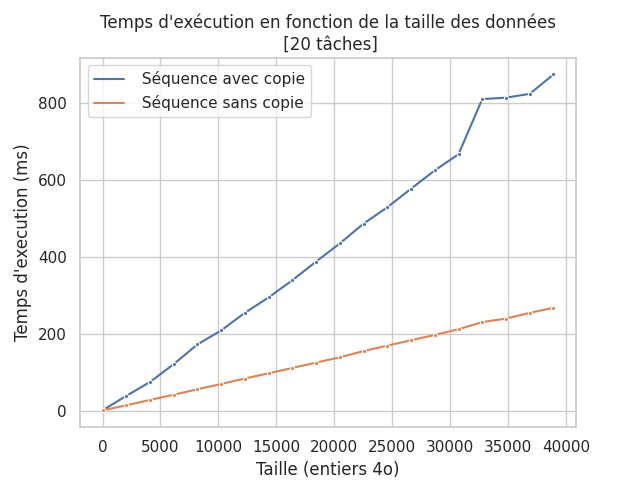
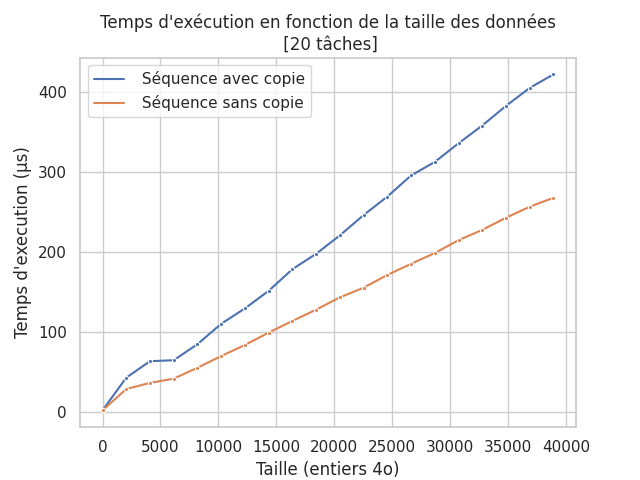
nouveaux graphs avec moyennes

diff --git a/write_data.cpp b/write_data.cpp
@@ -27,15 +27,20 @@ void write_copy_copyless_size(int max_size, int seq_length, std::string path) {
 			seq_copy.add_task(i * sizeof(int), i * sizeof(int)   , increment);
 			seq_copyless.add_task(i * sizeof(int)                 , increment_io);
 		}
-		seq_copy.set_input(in, sizeof(int) * i);
-		seq_copyless.set_input(in, sizeof(int) * i);
-
-		seq_copy.exec();
-		seq_copyless.exec();
+		float total_copy = 0, total_copyless = 0;
+		// Moyenne sur 10 execs
+		for(int y=0; y < 10; y++){
+			seq_copy.set_input(in, sizeof(int) * i);
+			seq_copyless.set_input(in, sizeof(int) * i);
+			seq_copy.exec();
+			seq_copyless.exec();
+			total_copy += duration_cast<nanoseconds>(seq_copy.timestamps.back() - seq_copy.timestamps.front()).count() / 1000.f;
+			total_copyless += duration_cast<nanoseconds>(seq_copyless.timestamps.back() - seq_copyless.timestamps.front()).count() / 1000.f;
+		}
 
 		output_file << i << ",";
-		output_file << duration_cast<nanoseconds>(seq_copy.timestamps.back() - seq_copy.timestamps.front()).count() * 1e-3 << ",";
-		output_file << duration_cast<nanoseconds>(seq_copyless.timestamps.back() - seq_copyless.timestamps.front()).count() * 1e-3 << endl;
+		output_file << total_copy/10 << ",";
+		output_file << total_copyless/10 << endl;
 	}
 	
 	output_file.close();
@@ -58,15 +63,22 @@ void write_copy_copyless_length(int max_seq_length, int size, std::string path) 
 			seq_copy.add_task(size * sizeof(int), size * sizeof(int), increment);
 			seq_copyless.add_task(size * sizeof(int)                 , increment_io);
 		}
-		seq_copy.set_input(in, sizeof(int) * size);
-		seq_copyless.set_input(in, sizeof(int) * size);
+		float total_copy = 0, total_copyless = 0;
+		// Moyenne sur 10 execs
+		for(int j=0; j < 10; j++) {
+			seq_copy.set_input(in, sizeof(int) * size);
+			seq_copyless.set_input(in, sizeof(int) * size);
+			seq_copy.exec();
+			seq_copyless.exec();
 
-		seq_copy.exec();
-		seq_copyless.exec();
+			total_copy += duration_cast<nanoseconds>(seq_copy.timestamps.back() - seq_copy.timestamps.front()).count() / 1000.f;
+			total_copyless += duration_cast<nanoseconds>(seq_copyless.timestamps.back() - seq_copyless.timestamps.front()).count() / 1000.f;
+		}
+
 
 		output_file << i << ",";
-		output_file << duration_cast<nanoseconds>(seq_copy.timestamps.back() - seq_copy.timestamps.front()).count() * 1e-3 << ",";
-		output_file << duration_cast<nanoseconds>(seq_copyless.timestamps.back() - seq_copyless.timestamps.front()).count() * 1e-3 << endl;
+		output_file << total_copy/10 << ",";
+		output_file << total_copyless/10 << endl;
 	}
 	output_file.close();
 }
@@ -111,8 +123,8 @@ void write_hybrid(int regular_length, int io_length, std::string path) {
 		seq_homog.exec();
 		seq_hybrid.exec();
 		for(size_t i=1; i < seq_homog.timestamps.size(); i++) {
-			total_homog[i] += duration_cast<nanoseconds>(seq_homog.timestamps[i] - seq_homog.timestamps[i-1]).count() / 1000.f / 1000.f;
-			total_hybrid[i] += duration_cast<nanoseconds>(seq_hybrid.timestamps[i] - seq_hybrid.timestamps[i-1]).count() / 1000.f / 1000.f;
+			total_homog[i] += duration_cast<nanoseconds>(seq_homog.timestamps[i] - seq_homog.timestamps[i-1]).count() / 1000.f;
+			total_hybrid[i] += duration_cast<nanoseconds>(seq_hybrid.timestamps[i] - seq_hybrid.timestamps[i-1]).count() / 1000.f;
 		}
 	}
 	for(size_t i=1; i < seq_homog.timestamps.size(); i++){

diff --git a/draw_plots.py b/draw_plots.py
@@ -11,24 +11,23 @@ hybrid_data = hybrid_data.set_index('Tâche')
 copy_copyless_length = copy_copyless_length.set_index('Longueur')
 copy_copyless_size = copy_copyless_size.set_index('Taille')
 ### HYBRIDE ###
-graph = sns.lineplot(data=hybrid_data, dashes=False, marker=".")
-plt.ylabel("Temps d'execution (ms)")
+graph = sns.lineplot(data=hybrid_data, dashes=False, marker=".", errorbar="sd")
+plt.ylabel("Temps d'execution (µs)")
 plt.xlabel("N° tâche")
 plt.ylim(0)
-plt.title("Temps d'exécution en fonction du N° de la tâche\n [2048 * 4 entiers]")
+plt.title("Temps d'exécution en fonction du N° de la tâche\n [2048 * 4 entiers -01]")
 graph.get_figure().savefig("./data/graph/hybrid_homog.png")
 plt.close()
 ### COPY-COPYLESS SIZE ###
 graph = sns.lineplot(data=copy_copyless_size, dashes=False, marker=".")
 plt.title("Temps d'exécution en fonction de la taille des données\n [20 tâches]")
-plt.ylabel("Temps d'execution (ms)")
+plt.ylabel("Temps d'execution (µs)")
 plt.xlabel("Taille (entiers 4o)")
 graph.get_figure().savefig("./data/graph/copy_copyless_size.png")
 plt.close()
-#plt.close()
 ### COPY-COPYLESS LENGTH ###
 graph = sns.lineplot(data=copy_copyless_length, dashes=False, marker=".")
 plt.title("Temps d'exécution en fonction de la longueur de la séquence\n [2048 * 20 entiers]")
-plt.ylabel("Temps d'execution (ms)")
+plt.ylabel("Temps d'execution (µs)")
 plt.xlabel("Longueur (nombre de tâches)")
 graph.get_figure().savefig("./data/graph/copy_copyless_length.png")

diff --git a/mini_seq.cpp b/mini_seq.cpp
@@ -48,8 +48,8 @@ void bench_sequence() {
 	Sequence seq_copyless;
 
 	for(int i=0; i < SIZE_SEQ; i++){
-		seq_copy.add_task(SIZE * sizeof(char), SIZE * sizeof(char), increment);
-		seq_copyless.add_task(SIZE * sizeof(char), increment_io);
+		seq_copy.add_task(SIZE * sizeof(char), SIZE * sizeof(char), increment_uint8);
+		seq_copyless.add_task(SIZE * sizeof(char), increment_uint8_io);
 	}
 	seq_copy.set_input(in, sizeof(char) * SIZE);
 	seq_copyless.set_input(in, sizeof(char) * SIZE);
